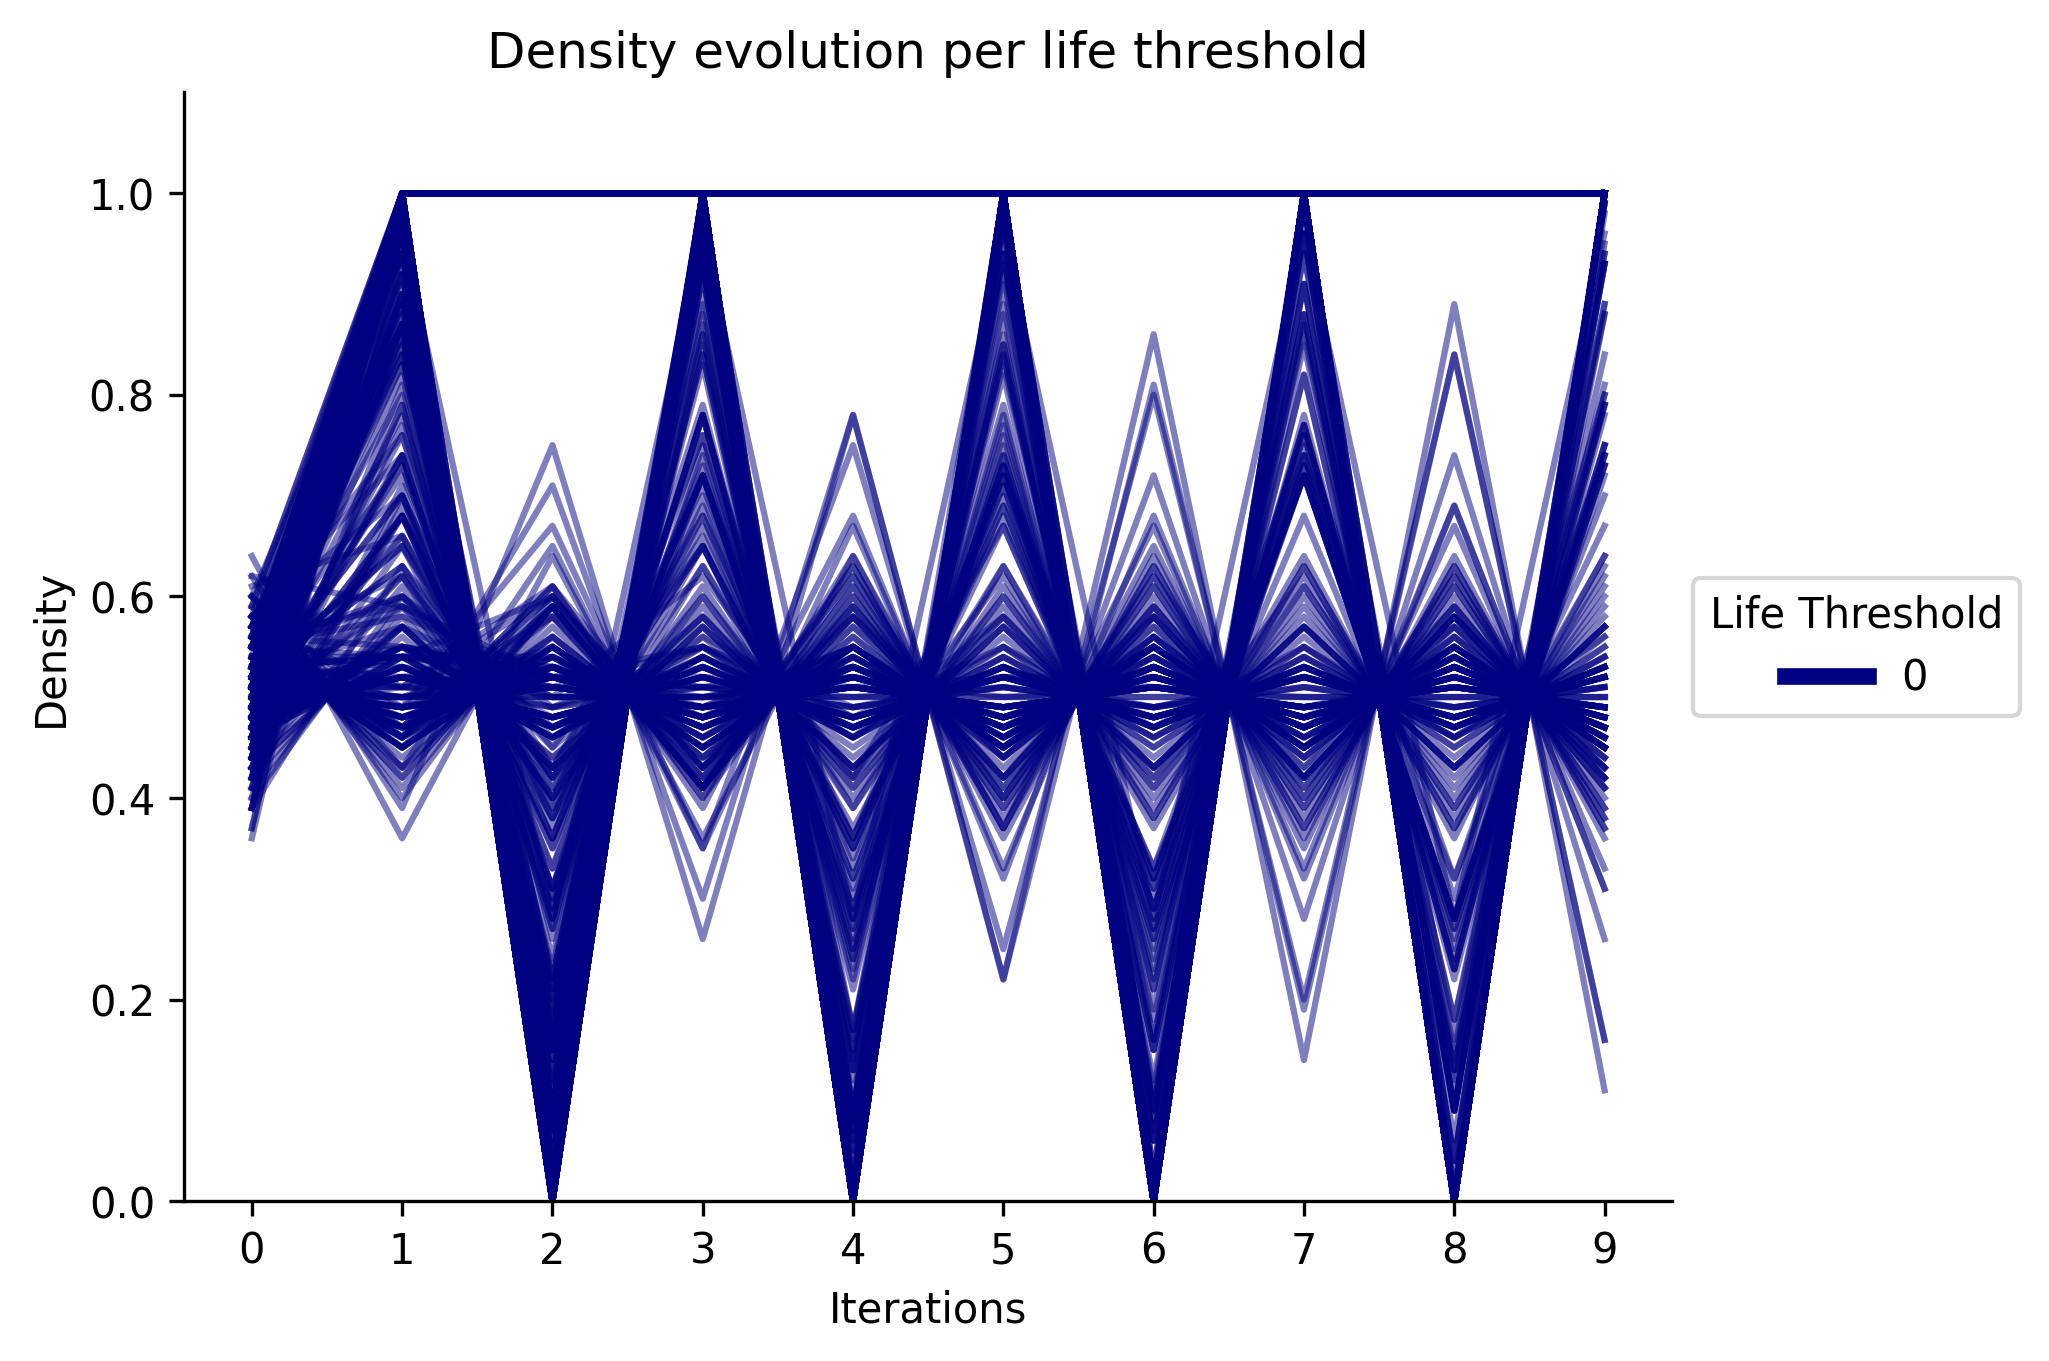
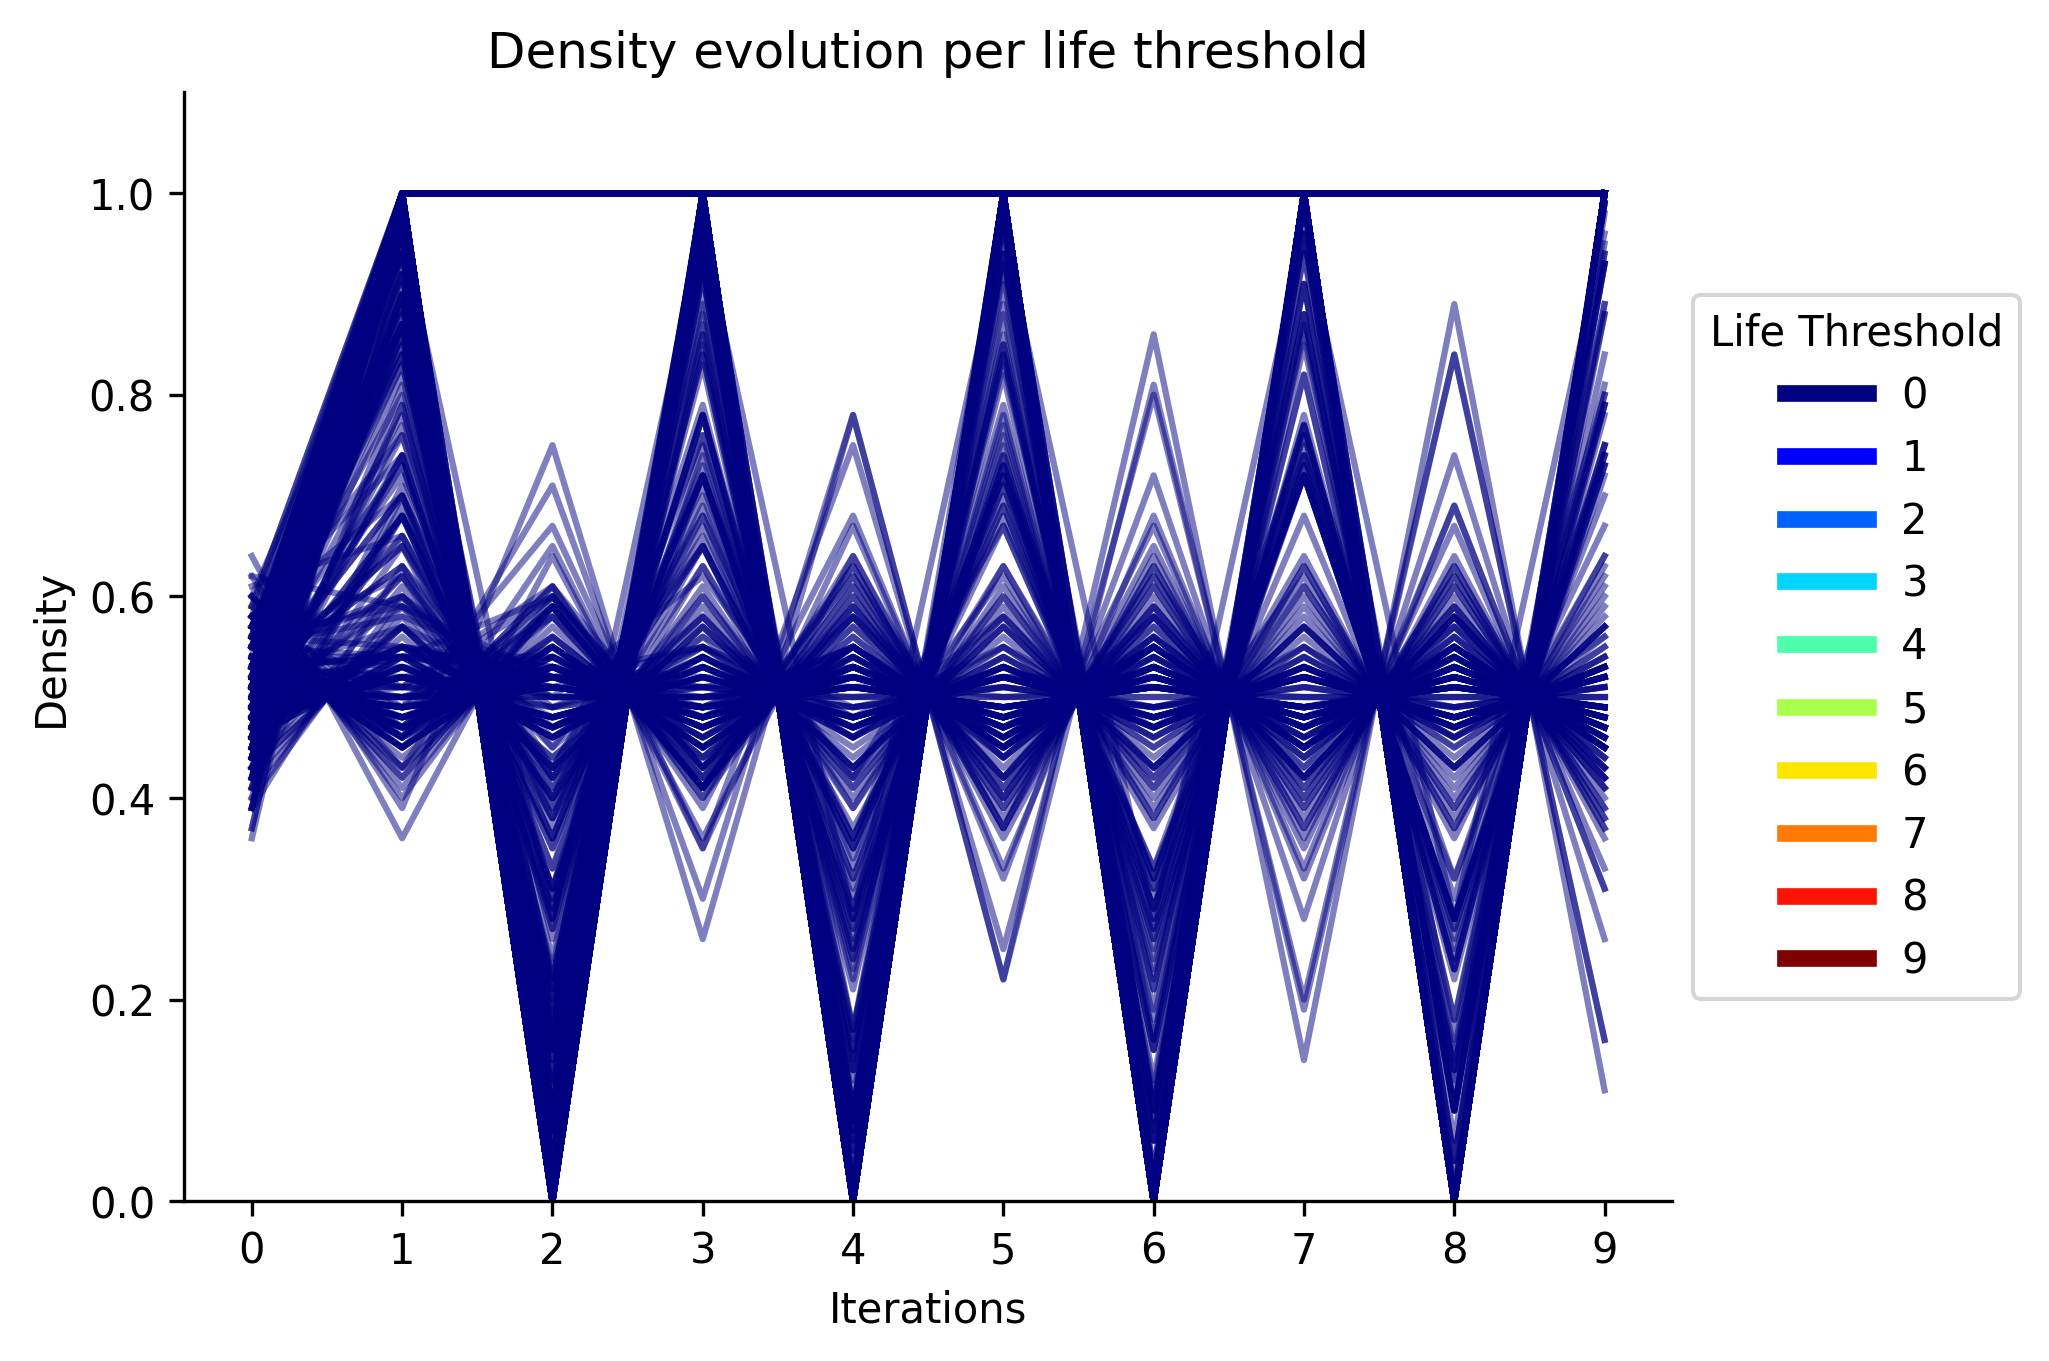
Apply threshold legend to density evolution lt plot

diff --git a/src/statistics/densities.py b/src/statistics/densities.py
@@ -95,9 +95,7 @@ def create_dataset_density_evolution_per_lt_plot(dataset, show=False, title="Den
 def plot_density_evolutions_per_lt(density_evolutions_by_lt, lts, title):
     ax = plt.subplot(111)
     
-    cmap = cm.get_cmap('jet')
-    colors = cmap(np.linspace(0, 1, len(lts)))
-    colors_by_lt = {lts[i]: colors[i] for i in range(len(lts))}
+    colors_by_lt = get_colors_by_threshold()
     for lt in lts:
         density_evolutions = density_evolutions_by_lt[lt]
         color = colors_by_lt[lt]
@@ -112,7 +110,7 @@ def plot_density_evolutions_per_lt(density_evolutions_by_lt, lts, title):
     ax.xaxis.set_major_locator(MaxNLocator(integer=True))
     # legend
     custom_lines = [Line2D([0], [0], color=color, lw=4)
-                    for color in colors]
+                    for color in colors_by_lt.values()]
     ax.legend(title="Life Threshold",fancybox=True,
               handles=custom_lines, 
               labels=range(0, 10),
